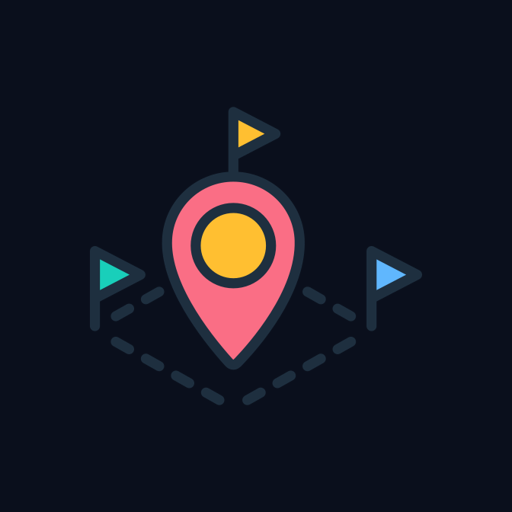
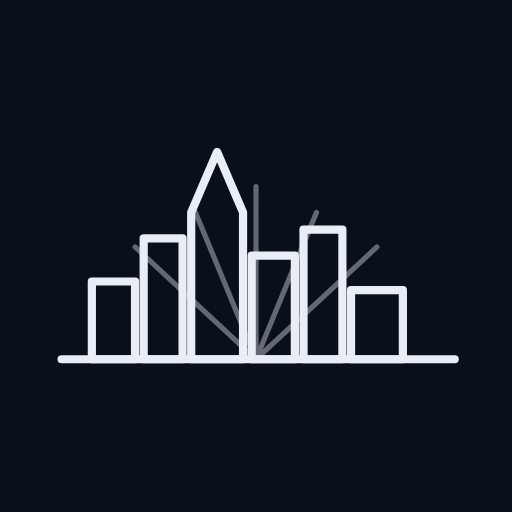
Deploy app React (territorios)

Changed region(s): [[0.0938, 0.1875, 0.9062, 0.8125]]

diff --git a/sw.js b/sw.js
@@ -1,1 +1,1 @@
-if(!self.define){let e,i={};const n=(n,s)=>(n=new URL(n+".js",s).href,i[n]||new Promise(i=>{if("document"in self){const e=document.createElement("script");e.src=n,e.onload=i,document.head.appendChild(e)}else e=n,importScripts(n),i()}).then(()=>{let e=i[n];if(!e)throw new Error(`Module ${n} didn’t register its module`);return e}));self.define=(s,r)=>{const o=e||("document"in self?document.currentScript.src:"")||location.href;if(i[o])return;let f={};const d=e=>n(e,o),a={module:{uri:o},exports:f,require:d};i[o]=Promise.all(s.map(e=>a[e]||d(e))).then(e=>(r(...e),f))}}define(["./workbox-9c191d2f"],function(e){"use strict";self.skipWaiting(),e.clientsClaim(),e.precacheAndRoute([{url:"zona.pmtiles",revision:"840bd9f304fd1ce713625c04f4cf9803"},{url:"territorios.geojson",revision:"4873a24853b7029112aa6bfd71ce843c"},{url:"registerSW.js",revision:"402b66900e731ca748771b6fc5e7a068"},{url:"pwa-512.png",revision:"4d1871bfa87740b187c14fb7a605c745"},{url:"pwa-192.png",revision:"dd0b8ebfa5fd94a8cd81e9dbbfa13586"},{url:"manzanas.geojson",revision:"270f8bf627b3e9d91f051ff09d52ac53"},{url:"manifest.webmanifest",revision:"97b5865dd47b6a741e8d07f590d6fd63"},{url:"index.html",revision:"909f24acfa2bfea0b3ee04806ea296d9"},{url:"icono.png",revision:"83a8cb983b45474ecf9b99fbeacb06a4"},{url:"fonts/Noto Sans Bold/256-511.pbf",revision:"6ab0d6dc3af238d17401168c4739fe67"},{url:"fonts/Noto Sans Bold/0-255.pbf",revision:"dd5c2777b8fa001f43d398975998b2af"},{url:"assets/index-DtquCFWY.css",revision:null},{url:"assets/index-DOsiwIu0.js",revision:null},{url:"icono.png",revision:"83a8cb983b45474ecf9b99fbeacb06a4"},{url:"pwa-192.png",revision:"dd0b8ebfa5fd94a8cd81e9dbbfa13586"},{url:"pwa-512.png",revision:"4d1871bfa87740b187c14fb7a605c745"},{url:"manifest.webmanifest",revision:"97b5865dd47b6a741e8d07f590d6fd63"}],{}),e.cleanupOutdatedCaches(),e.registerRoute(new e.NavigationRoute(e.createHandlerBoundToURL("index.html")))});
+if(!self.define){let e,i={};const n=(n,s)=>(n=new URL(n+".js",s).href,i[n]||new Promise(i=>{if("document"in self){const e=document.createElement("script");e.src=n,e.onload=i,document.head.appendChild(e)}else e=n,importScripts(n),i()}).then(()=>{let e=i[n];if(!e)throw new Error(`Module ${n} didn’t register its module`);return e}));self.define=(s,o)=>{const r=e||("document"in self?document.currentScript.src:"")||location.href;if(i[r])return;let f={};const c=e=>n(e,r),d={module:{uri:r},exports:f,require:c};i[r]=Promise.all(s.map(e=>d[e]||c(e))).then(e=>(o(...e),f))}}define(["./workbox-9c191d2f"],function(e){"use strict";self.skipWaiting(),e.clientsClaim(),e.precacheAndRoute([{url:"zona.pmtiles",revision:"840bd9f304fd1ce713625c04f4cf9803"},{url:"territorios.geojson",revision:"4873a24853b7029112aa6bfd71ce843c"},{url:"registerSW.js",revision:"402b66900e731ca748771b6fc5e7a068"},{url:"pwa-512.png",revision:"a5c54cddc7bf719fc8b5d7a6e8fe15ac"},{url:"pwa-192.png",revision:"7496a536700504767946420611c24ef7"},{url:"manzanas.geojson",revision:"270f8bf627b3e9d91f051ff09d52ac53"},{url:"manifest.webmanifest",revision:"97b5865dd47b6a741e8d07f590d6fd63"},{url:"index.html",revision:"e8c629bb039c693def1e00e26df747fd"},{url:"icono.png",revision:"a5c54cddc7bf719fc8b5d7a6e8fe15ac"},{url:"apple-touch-icon.png",revision:"860d8ca89fd08116f55c8b75726b4d8c"},{url:"fonts/Noto Sans Bold/256-511.pbf",revision:"6ab0d6dc3af238d17401168c4739fe67"},{url:"fonts/Noto Sans Bold/0-255.pbf",revision:"dd5c2777b8fa001f43d398975998b2af"},{url:"assets/index-DtquCFWY.css",revision:null},{url:"assets/index-DOsiwIu0.js",revision:null},{url:"icono.png",revision:"a5c54cddc7bf719fc8b5d7a6e8fe15ac"},{url:"pwa-192.png",revision:"7496a536700504767946420611c24ef7"},{url:"pwa-512.png",revision:"a5c54cddc7bf719fc8b5d7a6e8fe15ac"},{url:"manifest.webmanifest",revision:"97b5865dd47b6a741e8d07f590d6fd63"}],{}),e.cleanupOutdatedCaches(),e.registerRoute(new e.NavigationRoute(e.createHandlerBoundToURL("index.html")))});

diff --git a/index.html b/index.html
@@ -4,6 +4,7 @@
   <meta charset="utf-8"/>
   <meta name="viewport" content="width=device-width, initial-scale=1, maximum-scale=1, viewport-fit=cover"/>
   <link rel="icon" href="./icono.png"/>
+  <link rel="apple-touch-icon" href="./apple-touch-icon.png"/>
   <title>Congregación Este, SF</title>
   <script type="module" crossorigin src="./assets/index-DOsiwIu0.js"></script>
   <link rel="stylesheet" crossorigin href="./assets/index-DtquCFWY.css">